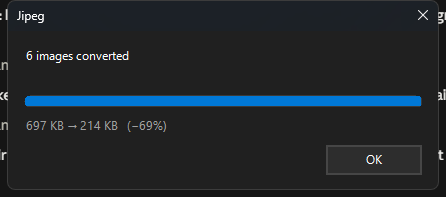
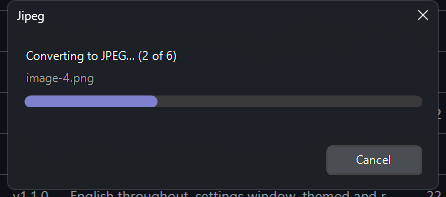
v1.2.0 — Mica background, hand-drawn accent progress bar, rounded buttons
Mica after all. The first attempt was rejected on a flawed test: the button was
a themed one on pure black, which is what produced the halo, and the bar was
still the opaque native control. With flat-styled buttons, transparent labels
and a drawn bar, the backdrop composites cleanly.

- DWMWA_SYSTEMBACKDROP_TYPE + DwmExtendFrameIntoClientArea give the Windows 11
  Mica material. Only applied when the chosen theme matches the Windows one,
  since the tint follows the system setting rather than ours. New setting to
  turn it off.
- The progress bar is drawn instead of native: one flat colour, rounded ends,
  no animation. The colour comes from the user's Windows accent palette - a
  light shade on dark, a deeper one on light, the way Windows picks.
- Buttons are clipped to rounded corners.

Fixes a real defect found while measuring the bar pixel by pixel: the fill was
computed with [math]::Min(1, $frac), which resolves to the Min(int, int)
overload and rounds $frac to 0 before comparing. The bar therefore showed empty
below 4/6 and full at or above it. Comparisons are now plain and typed, here
and in the two other places that mixed integer literals with doubles.

diff --git a/README.md b/README.md
@@ -29,8 +29,9 @@ Right-click an image → **Convert to JPEG (Jipeg)**.
 - Right-click a **folder** to take every image inside it.
 - The original is **never** modified or deleted. The result is written next to it with a
   `_jipeg` suffix (`photo.png` → `photo_jipeg.jpg`).
-- The window shows progress, then the result (`697 KB → 214 KB (−69%)`) and waits for you
-  to click **OK**. **Cancel** stops the batch after the current file.
+- The window shows progress in your Windows accent colour, then the result
+  (`697 KB → 214 KB (−69%)`), and waits for you to click **OK**. **Cancel** stops the batch
+  after the current file.
 
 ## Settings
 
@@ -43,6 +44,7 @@ Right-click an image → **Convert to JPEG (Jipeg)**.
 | **JPEG quality** | libjpeg scale. 90 is the default; 78 is light enough for the web, 96 is close to lossless. |
 | **Keep full colour detail (4:4:4)** | Disables chroma subsampling. Worth it for screenshots, text and sharp colour edges; files get larger. Pointless on photographs. |
 | **Theme** | Follow Windows, or force Light or Dark. |
+| **Translucent window background (Mica)** | The Windows 11 Mica material behind the windows. Ignored when the theme is forced to the opposite of the Windows one. |
 | **Close the window automatically** | Off by default, so the result stays until you dismiss it. |
 | **Check for updates** | Asks GitHub whether a newer release exists and offers to open the download page. It never downloads or runs anything on its own. |
 
@@ -91,12 +93,24 @@ window closes it hands those files to a fresh instance instead of losing them.
 
 ### Why it looks the way it does
 
-Every window uses real Windows controls, so it inherits the system font, the accent colour and
-the rounded corners Windows 11 draws itself. Two things needed help: the native progress bar
-has a white trough in dark mode, so the `DarkMode_Explorer` theme class is applied to it and a
-panel behind supplies the track; and check boxes keep a white glyph whatever you set, so in
-dark mode they are switched to `FlatStyle`. Acrylic and Mica backdrops were tried and dropped —
-standard controls do not composite correctly on glass.
+Every window uses real Windows controls, so it inherits the system font and the rounded corners
+Windows 11 draws itself. Four things needed help:
+
+- **Mica.** The window background is the translucent Mica material, applied through
+  `DWMWA_SYSTEMBACKDROP_TYPE` with the client area extended into the frame. DWM keys the glass
+  on black pixels, so the form background is black and labels are transparent — nothing else in
+  the UI is pure black, so nothing else disappears. Buttons must be `FlatStyle` with their own
+  background, otherwise the themed renderer leaves an opaque halo around them. Mica is only used
+  when the chosen theme matches the Windows theme, because its tint comes from the system
+  setting rather than ours.
+- **The progress bar is drawn, not native.** The stock `ProgressBar` animates its fill, cannot
+  be recoloured reliably, and has a white trough in dark mode. This one is a rounded rectangle
+  in a single flat colour that never animates.
+- **The colour is yours.** It comes from the Windows accent palette in the registry — a light
+  shade on dark backgrounds, a deeper one on light, the same way Windows picks.
+- **Check boxes** keep a white glyph whatever `BackColor` says, and `SetWindowTheme` breaks them
+  outright, so in dark mode they switch to `FlatStyle`. `NumericUpDown` cannot be darkened at
+  all, which is why quality is a drop-down.
 
 ## Layout
 
